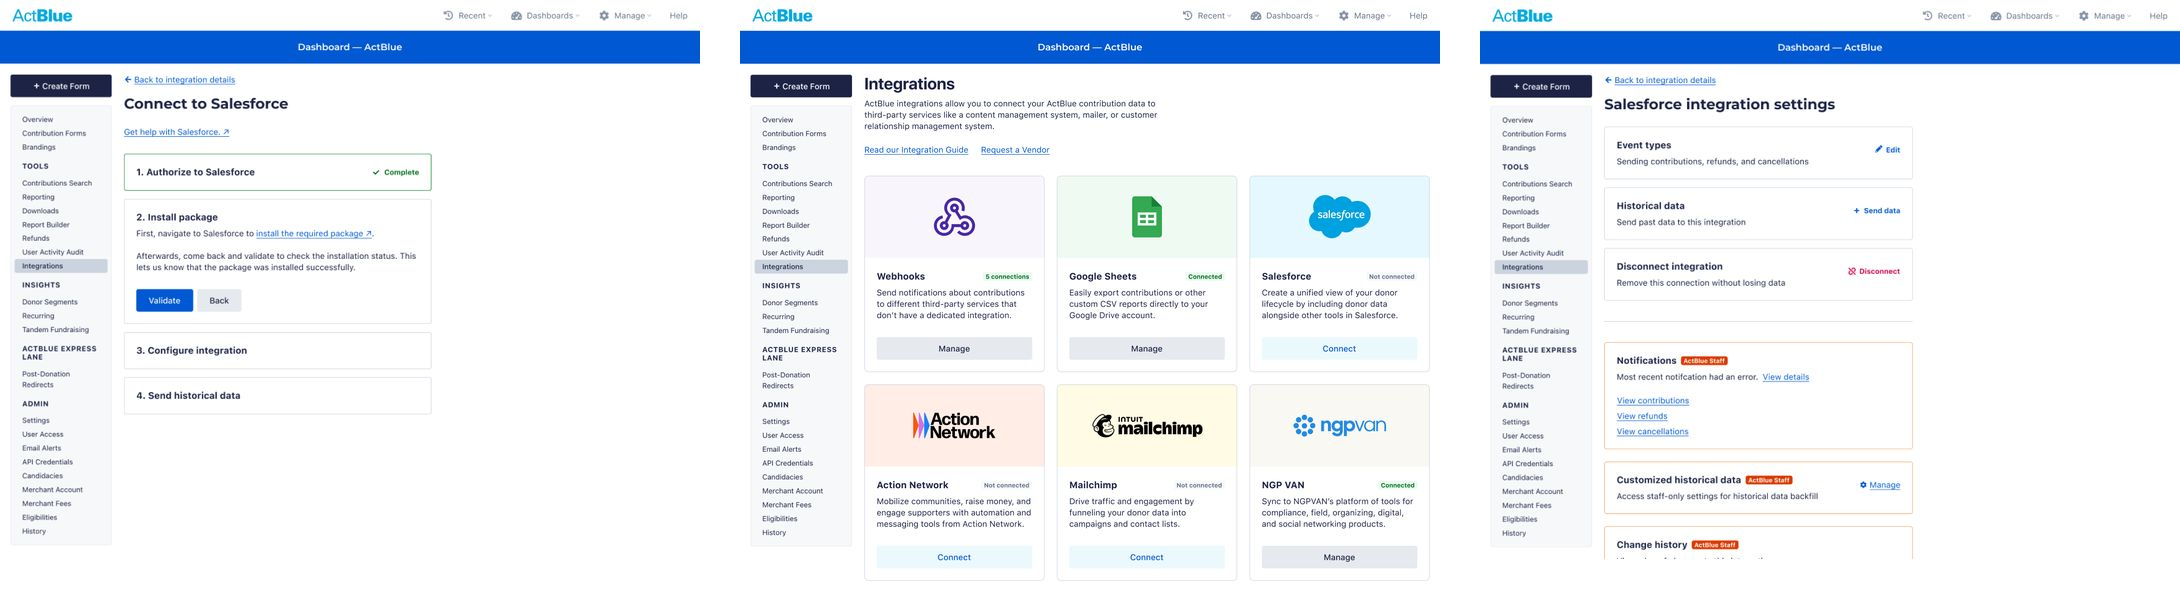
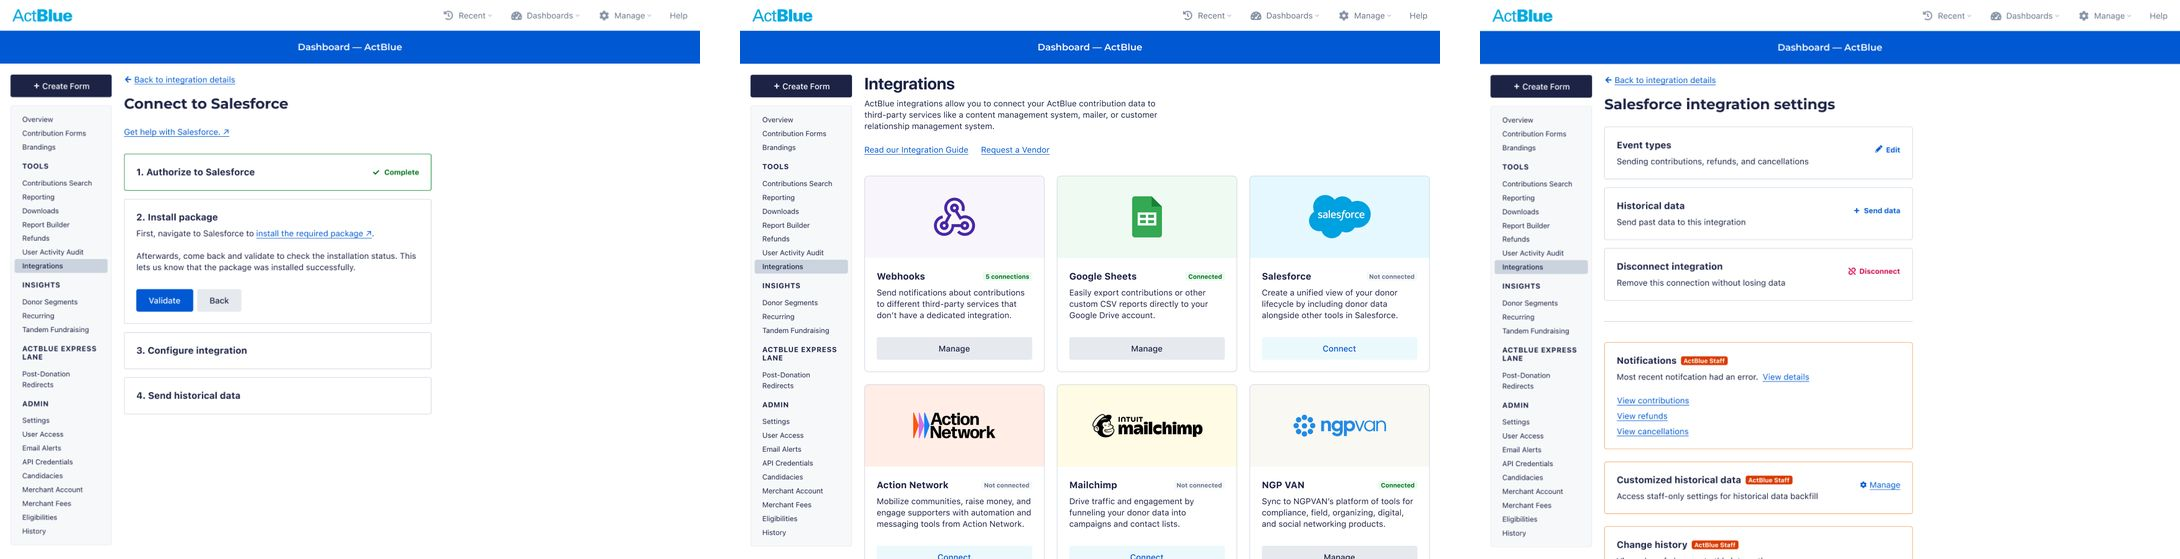
tint study pages with the card palette, add framed image spread

diff --git a/src/pages/Studies/pages/ActBlue/content.ts b/src/pages/Studies/pages/ActBlue/content.ts
@@ -94,15 +94,21 @@ const content = {
             title: 'Outcomes',
             description: [
                 'Admins could set up the integration on their own, see what was syncing and fix issues without going through support. Support teams saw a sharp drop in setup issues and manual intervention. Internal estimates put the savings at over $1.5 million per year in reduced support costs.',
-                'The patterns, flows and docs from this work have since been reused for other integrations and internal tools.',
+                'The patterns, flows and documentation from this work have since been reused for other integrations and internal tools.',
             ],
-            image: [
-                {
-                    src: finalScreensImage,
-                    caption: 'Selection of final screens from the workflow.',
-                    alt: 'Three final screens: the four-step Connect to Salesforce setup, the Integrations page with cards for Webhooks, Google Sheets, Salesforce and other services, and the Salesforce integration settings with staff-only cards.',
-                },
-            ],
+            // The three final screens are slices of one 2180 x 559 image, in the spread box (D-069).
+            panels: {
+                src: finalScreensImage,
+                sourceWidth: 2180,
+                sourceHeight: 559,
+                framed: true,
+                slices: [
+                    { x: 0, y: 0, width: 700, height: 559, alt: 'The Connect to Salesforce setup in four steps, with authorization complete and the package installation step open.' },
+                    { x: 740, y: 0, width: 700, height: 559, alt: 'The Integrations page with cards for Webhooks, Google Sheets, Salesforce and other services, each with its connection status.' },
+                    { x: 1480, y: 0, width: 700, height: 559, alt: 'The Salesforce integration settings, with cards for event types, historical data and disconnecting, and staff-only cards for notifications.' },
+                ],
+                caption: 'Final screens from the integration flow.',
+            },
         },
         {
             order: 4,
@@ -110,7 +116,7 @@ const content = {
             descriptionBullets: [
                 'Figma prototypes covering setup, sync settings and error states',
                 'CSS samples for developers',
-                'System diagrams and flow maps for planning and engineering alignment',
+                'System diagrams, flows and edge case maps for planning and engineering alignment',
                 'Documentation for edge cases, failure scenarios and recovery paths',
                 'Reusable UI patterns now used by other integrations and internal tools',
             ],
@@ -119,7 +125,7 @@ const content = {
             order: 5,
             title: 'Opportunities',
             description: [
-                'Looking back at this project, I would change four things:',
+                'Time and a focus on a targeted MVP were the main constraints. Looking back, I would change four things:',
             ],
             items: [
                 {
@@ -128,7 +134,7 @@ const content = {
                 },
                 {
                     label: 'Design Iteration',
-                    text: 'The Connected status chip is too understated for the most important state on the page. The Salesforce illustration beside the description also needs refining. I would iterate on both.',
+                    text: 'The Connected status chip is too understated for the most important state on the page. The Salesforce logo beside the description also needs another pass. I would iterate on both.',
                 },
                 {
                     label: 'Notification History',

diff --git a/src/pages/Studies/components/HeaderSection/HeaderSection.module.css b/src/pages/Studies/components/HeaderSection/HeaderSection.module.css
@@ -32,9 +32,8 @@
 
 .title {
 	margin: 0;
-	/* The h1 takes the color of the study's card title (D-052): the palette's on-container in light,
-	   white in dark like the cards (D-028). */
-	color: var(--h1-color, var(--color-content-emphasis));
+	/* The h1 takes the study's heading color (D-052, set on the page by StudyTemplate). */
+	color: var(--study-heading, var(--color-content-emphasis));
 	font-family: var(--font-style-title-md-family);
 	font-size: var(--font-style-title-md-size);
 	font-weight: var(--font-style-title-md-weight);
@@ -80,47 +79,14 @@
 }
 
 .chip {
-	--chip-bg: var(--color-primary-container);
-	--chip-fg: var(--color-primary-on-container);
-
 	padding: var(--size-space-sm) var(--size-space-lg);
 	border-radius: var(--size-radius-md);
-	background: var(--chip-bg);
-	color: var(--chip-fg);
+	background: var(--study-container, var(--color-primary-container));
+	color: var(--study-heading, var(--color-primary-on-container));
 	font-family: var(--font-family-mono);
 	font-size: var(--font-style-body-sm-size);
 	font-weight: var(--font-weight-emphasis);
 	line-height: var(--font-line-height-default);
-}
-
-.brand {
-	--chip-bg: var(--color-brand-container);
-	--chip-fg: var(--color-brand-on-container);
-}
-
-.primary {
-	--chip-bg: var(--color-primary-container);
-	--chip-fg: var(--color-primary-on-container);
-}
-
-.secondary {
-	--chip-bg: var(--color-secondary-container);
-	--chip-fg: var(--color-secondary-on-container);
-}
-
-.tertiary {
-	--chip-bg: var(--color-tertiary-container);
-	--chip-fg: var(--color-tertiary-on-container);
-}
-
-.quaternary {
-	--chip-bg: var(--color-quaternary-container);
-	--chip-fg: var(--color-quaternary-on-container);
-}
-
-/* Dark: chip text is white, like the card headings and the About chips (D-028). */
-:global([data-theme='dark']) .chip {
-	--chip-fg: var(--color-content-emphasis);
 }
 
 .description {
@@ -146,35 +112,5 @@
 
 	.chips {
 		flex-wrap: wrap;
-	}
-}
-
-.h1-brand {
-	--h1-color: var(--color-brand-on-container);
-}
-
-.h1-primary {
-	--h1-color: var(--color-primary-on-container);
-}
-
-.h1-secondary {
-	--h1-color: var(--color-secondary-on-container);
-}
-
-.h1-tertiary {
-	--h1-color: var(--color-tertiary-on-container);
-}
-
-.h1-quaternary {
-	--h1-color: var(--color-quaternary-on-container);
-}
-
-:global([data-theme='dark']) .title {
-	--h1-color: var(--color-content-emphasis);
-}
-
-@media (prefers-color-scheme: dark) {
-	:global(:root:not([data-theme='light'])) .title {
-		--h1-color: var(--color-content-emphasis);
 	}
 }

diff --git a/src/pages/Studies/components/HeaderSection/HeaderSection.tsx b/src/pages/Studies/components/HeaderSection/HeaderSection.tsx
@@ -6,8 +6,8 @@ import type { StudyHeaderProps } from '@commonTypes/study/studyHeader';
 import styles from './HeaderSection.module.css';
 
 // The one h1 on a study page. Chips are a list of plain labels (no interaction); all of them use the
-// study's card palette, like the h1 (D-052), so a chip's own `theme` is not used here.
-const HeaderSection: React.FC<StudyHeaderProps & { className?: string; palette?: 'brand' | 'primary' | 'secondary' | 'tertiary' | 'quaternary' }> = ({
+// study's card palette from the page, like the h1 (D-052), so a chip's own `theme` is not used here.
+const HeaderSection: React.FC<StudyHeaderProps & { className?: string }> = ({
   title,
   subtitle,
   roleDetails,
@@ -15,13 +15,12 @@ const HeaderSection: React.FC<StudyHeaderProps & { className?: string; palette?:
   description,
   image,
   compare,
-  palette = 'brand',
   className,
 }) => (
   <header className={`${styles.header} ${className ?? ''}`}>
     <div className={styles.intro}>
       <div className={styles.top}>
-        <h1 className={`${styles.title} ${styles[`h1-${palette}`]}`}>{title}</h1>
+        <h1 className={`${styles.title}`}>{title}</h1>
         {subtitle && <p className={styles.subtitle}>{subtitle}</p>}
         <p className={styles.details}>
           <span>{roleDetails[0].role}</span>
@@ -37,7 +36,7 @@ const HeaderSection: React.FC<StudyHeaderProps & { className?: string; palette?:
       </div>
       <ul className={styles.chips}>
         {chips.map((chip) => (
-          <li key={chip.label} className={`${styles.chip} ${styles[palette]}`}>
+          <li key={chip.label} className={`${styles.chip}`}>
             {chip.label}
           </li>
         ))}

diff --git a/src/pages/Studies/components/StudyTemplate/StudyTemplate.module.css b/src/pages/Studies/components/StudyTemplate/StudyTemplate.module.css
@@ -2,6 +2,54 @@
    reading measure (D-040) and images run the full column. Every image has 40px above and below it
    (D-053): the image's own margin, so the blocks around it add no extra gap. */
 
+/* The study's card palette (D-052, D-069): --study-container is the tint, --study-on-container the text on
+   it, --study-heading the h1 and h3 color (the palette's on-container in light, white in dark like the
+   cards, D-028). Chips, the "After" side of a before / after pair, the spread box and the text
+   selection all read these. */
+.pal-brand {
+	--study-container: var(--color-brand-container);
+	--study-on-container: var(--color-brand-on-container);
+}
+
+.pal-primary {
+	--study-container: var(--color-primary-container);
+	--study-on-container: var(--color-primary-on-container);
+}
+
+.pal-secondary {
+	--study-container: var(--color-secondary-container);
+	--study-on-container: var(--color-secondary-on-container);
+}
+
+.pal-tertiary {
+	--study-container: var(--color-tertiary-container);
+	--study-on-container: var(--color-tertiary-on-container);
+}
+
+.pal-quaternary {
+	--study-container: var(--color-quaternary-container);
+	--study-on-container: var(--color-quaternary-on-container);
+}
+
+.page {
+	--study-heading: var(--study-on-container);
+}
+
+:global([data-theme='dark']) .page {
+	--study-heading: var(--color-content-emphasis);
+}
+
+@media (prefers-color-scheme: dark) {
+	:global(:root:not([data-theme='light'])) .page {
+		--study-heading: var(--color-content-emphasis);
+	}
+}
+
+.page ::selection {
+	background: var(--study-container);
+	color: var(--study-on-container);
+}
+
 .page {
 	display: flex;
 	flex-direction: column;

diff --git a/src/pages/Studies/components/StudyTemplate/StudyTemplate.tsx b/src/pages/Studies/components/StudyTemplate/StudyTemplate.tsx
@@ -23,12 +23,13 @@ const endsWithMedia = (section?: StudySectionProps) =>
 
 // legacy={false}: the page no longer takes the global legacy link and dark-mode rules (D-036, D-046).
 const StudyTemplate: React.FC<StudyTemplateProps> = ({ meta, content, renderSection }) => {
+  const palette = studyPalette(meta.linkUrl);
   const sections = [...content.sections].sort((a, b) => (a.order ?? 0) - (b.order ?? 0));
   return (
   <Layout
     title={meta.title}
     metaDescription={meta.description}
-    className={styles.page}
+    className={`${styles.page} ${styles[`pal-${palette}`]}`}
     legacy={false}
   >
     <HeaderSection
@@ -40,7 +41,6 @@ const StudyTemplate: React.FC<StudyTemplateProps> = ({ meta, content, renderSect
       description={content.header.description}
       image={content.header.image}
       compare={content.header.compare}
-      palette={studyPalette(meta.linkUrl)}
     />
     {sections.map((section, idx) =>
       renderSection ? renderSection(section, idx) : <StudySection key={idx} section={section} />

diff --git a/src/pages/Studies/components/StudyPanels/StudyPanels.module.css b/src/pages/Studies/components/StudyPanels/StudyPanels.module.css
@@ -44,10 +44,36 @@
 	text-wrap: pretty;
 }
 
+/* Spread (D-069, Figma ActBlue 2858:28022): the full 960 column, the study's tint, 32px all round and
+   24px between panels, every panel fully inside the box with the card corner. */
+.framed {
+	max-width: none;
+}
+
+.framed .box {
+	height: auto;
+	padding: var(--size-space-3xl);
+	gap: var(--size-space-2xl);
+	background: var(--study-container, var(--color-surface-sunken));
+}
+
+.framed .panel {
+	border-radius: var(--size-radius-xs);
+}
+
+.framed .caption {
+	max-width: 40rem;
+}
+
 @media (max-width: 640px) {
 	.box {
 		height: 13.75rem; /* 220px */
 		padding: var(--size-space-lg) var(--size-space-lg) 0;
+		gap: var(--size-space-md);
+	}
+
+	.framed .box {
+		padding: var(--size-space-lg);
 		gap: var(--size-space-md);
 	}
 }

diff --git a/src/commonTypes/study/studySection.ts b/src/commonTypes/study/studySection.ts
@@ -12,6 +12,7 @@ export type StudySectionProps = {
     sourceHeight: number;
     slices: { x: number; y: number; width: number; height: number; alt: string }[];
     caption?: string;
+    framed?: boolean; // The spread: full column, the study's tint, even 32px padding (D-069)
   };
   compare?: { before: StudyImageProps; after: StudyImageProps; caption?: string }; // Before / after pair (D-050)
   items?: { label: string; text: string }[]; // Labeled paragraphs: the label is an h3 above the text

diff --git a/src/pages/Studies/components/StudyCompare/StudyCompare.module.css b/src/pages/Studies/components/StudyCompare/StudyCompare.module.css
@@ -24,7 +24,7 @@
 }
 
 .after {
-	background: var(--color-secondary-container);
+	background: var(--study-container, var(--color-secondary-container));
 }
 
 .shot {
@@ -58,8 +58,8 @@
 }
 
 .after .chip {
-	background: var(--color-secondary-container);
-	color: var(--color-secondary-on-container);
+	background: var(--study-container, var(--color-secondary-container));
+	color: var(--study-on-container, var(--color-secondary-on-container));
 }
 
 /* Captions sit in the copy's 40rem column (D-054). */

diff --git a/src/pages/Studies/components/StudyPanels/StudyPanels.tsx b/src/pages/Studies/components/StudyPanels/StudyPanels.tsx
@@ -13,9 +13,10 @@ const StudyPanels: React.FC<StudyPanelsProps> = ({
   sourceHeight,
   slices,
   caption,
+  framed,
   className,
 }) => (
-  <figure className={`${styles.figure} ${className ?? ''}`}>
+  <figure className={`${styles.figure} ${framed ? styles.framed : ''} ${className ?? ''}`}>
     <div className={styles.box}>
       {slices.map((slice) => (
         <div key={slice.alt} className={styles.panel} style={{ aspectRatio: `${slice.width} / ${slice.height}` }}>

diff --git a/src/pages/Studies/components/StudySection/StudySection.module.css b/src/pages/Studies/components/StudySection/StudySection.module.css
@@ -76,7 +76,7 @@
 
 .label {
 	margin: 0;
-	color: var(--color-content-emphasis);
+	color: var(--study-heading, var(--color-content-emphasis)); /* the study's tint (D-069) */
 	font-family: var(--font-style-heading-sm-family);
 	font-size: var(--font-style-heading-sm-size);
 	font-weight: var(--font-weight-emphasis); /* bold, 700 (D-055) */

diff --git a/docs/decisions.md b/docs/decisions.md
@@ -333,8 +333,12 @@ The 40rem reading column (h1, role, chips, intro, h2s, h3s, text, captions, the 
 
 ## D-067: ActBlue copy, reviewed with Jax — decided, 2026-10-19
 
-Sections: Context, Contributions, Outcomes, Deliverables, new Opportunities. The Figma frame's invented claims were left out (80% fewer dropdowns, "thousands of campaigns", WCAG-compliant, Slack and AI-mapping Opportunities). Added from Jax: role is Remote, a short ActBlue and users introduction (teams of one to presidential campaigns), the existing Blueprint design system (used and contributed to), Figma prototypes and CSS samples, close work with the product and engineering managers, FigJam workshops built together, and Jax's was the first design work on the team. Contributions are five labeled items. Opportunities are Jax's four: per-integration analytics, design iteration (Connected chip, image), notification history (moved to a future state), a clear path to help. The $1.5M estimate and the "sharp drop" in setup issues stay as before (confirmed). Opportunities are written from Jax's notes in the page voice, not his exact wording. TODO(jax): confirm the Design Iteration item (Connected chip, Salesforce illustration).
+Sections: Context, Contributions, Outcomes, Deliverables, new Opportunities. The Figma frame's invented claims were left out (80% fewer dropdowns, "thousands of campaigns", WCAG-compliant, Slack and AI-mapping Opportunities). Added from Jax: role is Remote, a short ActBlue and users introduction (teams of one to presidential campaigns), the existing Blueprint design system (used and contributed to), Figma prototypes and CSS samples, close work with the product and engineering managers, FigJam workshops built together, and Jax's was the first design work on the team. Contributions are five labeled items. Opportunities are Jax's four: per-integration analytics, design iteration (Connected chip, image), notification history (moved to a future state), a clear path to help. The $1.5M estimate and the "sharp drop" in setup issues stay as before (confirmed). Opportunities are written from Jax's notes in the page voice, not his exact wording. TODO(jax): confirm the Design Iteration item (Connected chip, Salesforce logo).
 
 ## D-068: ActBlue images from Figma — decided, 2026-10-19
 
 Figma `2860:33875` order: the hero is a before / after pair (old staff-only notifications screen, redesigned Salesforce page), then the FigJam board (Context), the annotated full flow (Contributions) and three final screens (Outcomes, one composite image). Exported from the frame's image fills as JPEG (`*-min.jpg`, quality 80, at most 1600px wide, the tall "before" cropped to 1600 x 1895). The five old PNGs are removed, including `responsive-specs`, which the Figma frame hides. The three final screens are one image, not `StudyPanels`: the source crops are landscape and the panels box is a fixed 300px, which left empty space.
+
+## D-069: The study palette tints the whole page — decided, 2026-10-19
+
+`StudyTemplate` sets `--study-container`, `--study-on-container` and `--study-heading` on the page from the study's card palette (`pal-<name>`). They drive the h1, the chips, the label h3s (on-container in light, white in dark), the text selection color, the "After" side of a before / after pair and the new spread box. This replaces the per-palette classes in `HeaderSection` (it no longer takes a `palette` prop). Before / after follows Figma ActBlue: "Before" on the sunken surface, "After" on the study tint (Indeed's "After" is now its tertiary sky tint, was secondary). Spread: `panels.framed` on a section renders `StudyPanels` full width on the study tint with 32px padding on every side, 24px between panels and the 4px panel corner (Figma `2858:28022`, whose blue fill is replaced by the tint); phones use 16px padding and 12px gaps. ActBlue's three final screens use it, cropped at 700 x 559 each. ActBlue copy: the Opportunities lead-in names time and a targeted MVP as the constraints; terms made consistent ("flow", "documentation"); "Salesforce logo" replaces "illustration".
